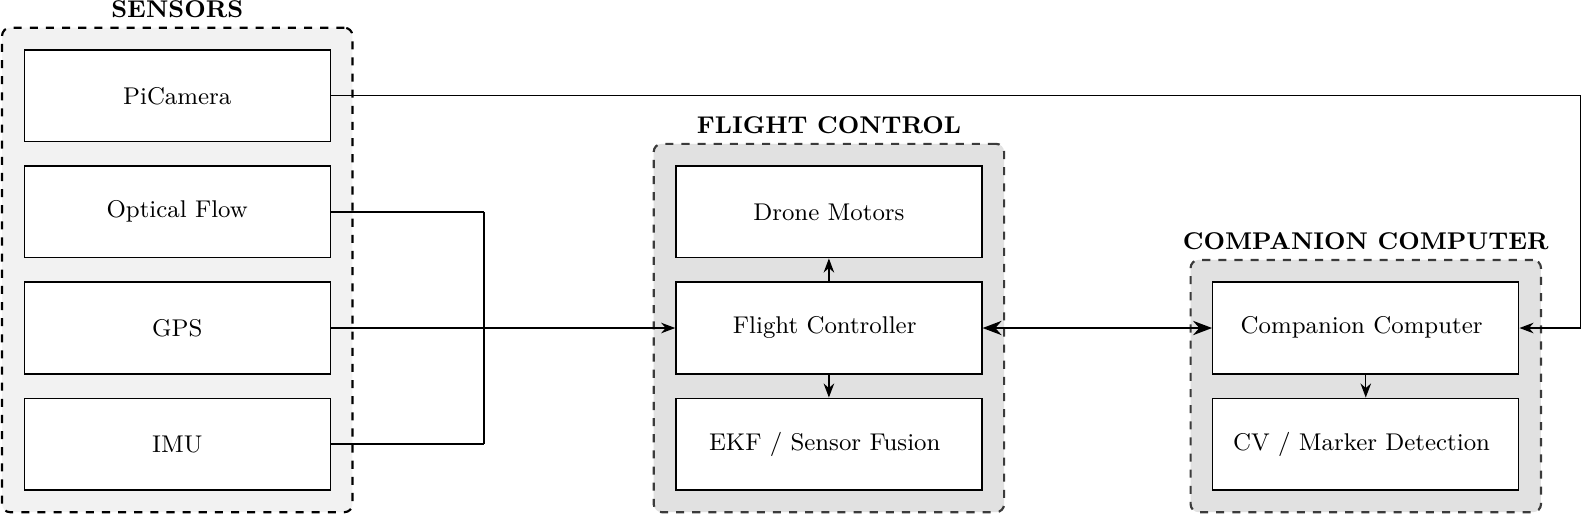
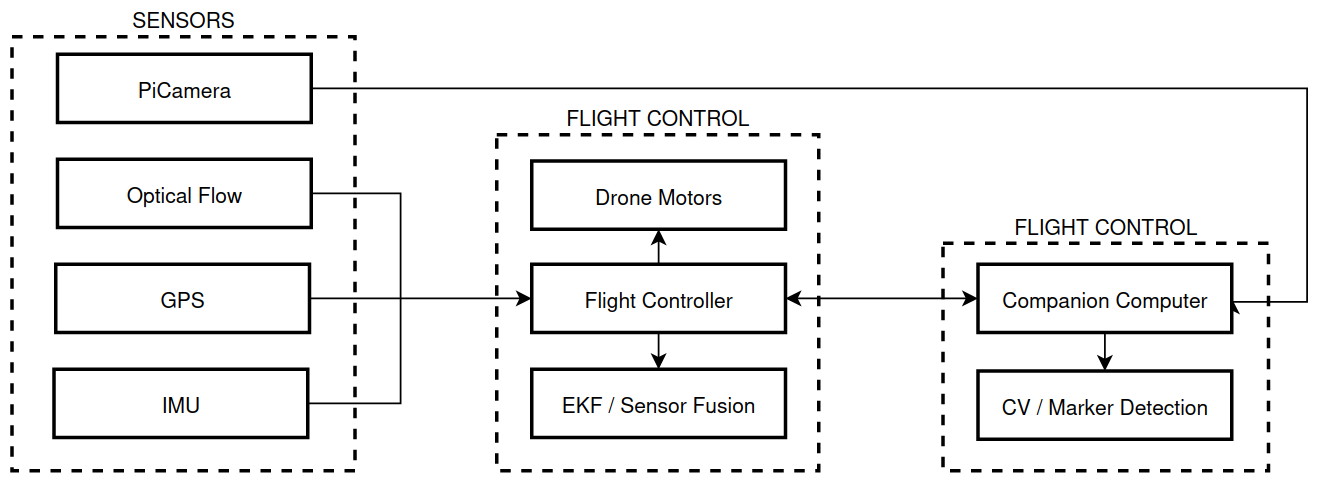
drone-localization_navigation: Shortened text

Changed region(s): [[0.0, 0.0, 1.0, 1.0]]

diff --git a/sections/design/drone/perception_navigation/localization_navigation.tex b/sections/design/drone/perception_navigation/localization_navigation.tex
@@ -3,40 +3,37 @@
 % Teams: drone (best guess - unconfirmed) / Status: EXAMPLE (scope approximation)
 %
 % EXAMPLE CONTENT for scope/layout approximation - not final report text.
-% Scope covers sensor fusion for state estimation and autonomous flight,
-% including GPS, Extended Kalman Filter (EKF), and optical flow integration
-% for stable positioning and navigation command execution. Marked with
-% \exampleflag on its heading in the assembler.
+% Scope covers sensor fusion, autonomous search, marker localization, and
+% precision landing. Marked with \exampleflag on its heading in the assembler.
 % =============================================================================
 
-During the Droning Sub-Task, the Drone runs in fully autonomous mode. The
-companion computer handles mission logic and vision processing, while
-control commands are executed through the architecture shown in
-\autoref{fig:drone_navigation_dataflow}. Any detected anomaly triggers the
-relevant failsafe procedure (\autoref{sec:safety}). After start, the
-vehicle performs an outward search pattern; once the ArUco marker is
-detected, it immediately switches to alignment and landing.
+During the Droning Sub-Task, the Drone operates autonomously using the
+architecture shown in \autoref{fig:drone_navigation_dataflow}. The companion
+computer manages mission logic and vision processing, while the flight
+controller performs pose estimation, stabilization, and command execution.
+Detected anomalies activate the corresponding failsafe procedure described in
+\autoref{sec:safety}.
 
-The Drone utilizes an Extended Kalman Filter (EKF) to fuse Global
-Navigation Satellite System (GNSS), optical flow, and IMU data into a
-robust, dual-layered navigation system. Macro-navigation relies on the GNSS
-module for absolute global positioning, enforcing operational geofences and
-guaranteeing reliable Return-to-Launch (RTL) or Loiter flight modes.
-Micro-navigation depends on the optical flow sensor to track relative local
-coordinates and maintain stable hovering.
+The Extended Kalman Filter (EKF) combines IMU and optical-flow data. GPS provides global positioning
+for geofence enforcement, while optical flow supports stable local positioning for navigation.
+The measured localization performance was
+\emph{[Placeholder: provide position error, test conditions, reference ground
+truth, and number of trials]}.
+
+After take-off, the Drone follows an outward search pattern until the
+downward-facing camera detects the ArUco landing marker. The companion computer
+estimates the marker pose, transforms it into the Drone local frame using the
+camera calibration and flight-controller orientation, and generates alignment
+and descent commands. This allows the system to transition from local-based
+area navigation to vision-guided precision landing without operator input.
+
+\todo[inline]{Populate placeholder with the measurements}
 
 \begin{figure}[!htbp]
     \centering
-    \includegraphics[width=0.7\linewidth]{teams/drone/figures/drone_navigation_dataflow}
+    \includegraphics[width=0.7\linewidth]
+        {teams/drone/figures/drone_navigation_dataflow}
     \caption{Drone dataflow and control architecture for autonomous
              navigation and task execution}
     \label{fig:drone_navigation_dataflow}
 \end{figure}
-
-\todo[inline]{Add the localization accuracy achieved in testing (e.g.
-position error vs ground truth) and example CV detection output -
-currently descriptive only, no measured evidence, unlike the rover's
-navigational stack.}
-
-\todo[inline]{Autonomous landing pipeline as an innovative solution. See
-required content above.}